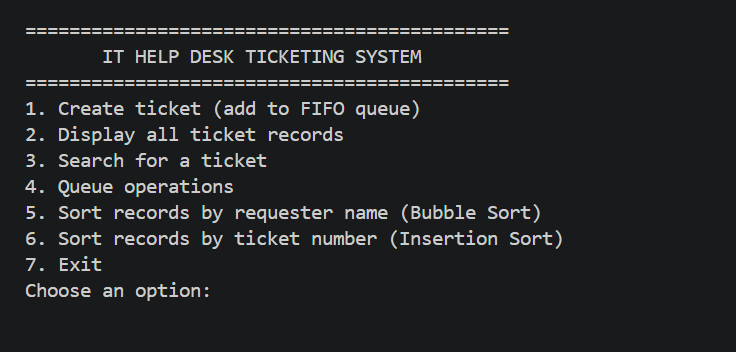
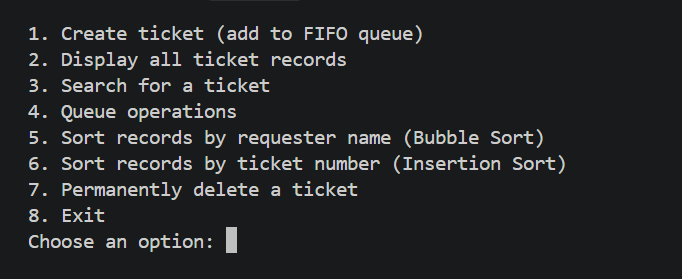
Improved ticket validation, sorting output, and added permanent ticket deletion. Documentation has been updated to accomodate.

Changed region(s): [[0.0308, 0.2867, 0.8314, 0.9176], [0.0308, 0.0573, 0.7082, 0.2581]]

diff --git a/src/Main.java b/src/Main.java
@@ -44,7 +44,7 @@ public class Main {
 
         while (running) {
             displayMainMenu();
-            int choice = readIntegerInRange("Choose an option: ", 1, 7);
+            int choice = readIntegerInRange("Choose an option: ", 1, 8);
 
             if (choice == END_OF_INPUT) {
                 break;
@@ -70,6 +70,9 @@ public class Main {
                     sortByTicketNumber();
                     break;
                 case 7:
+                    deleteTicket();
+                    break;
+                case 8:
                     running = false;
                     System.out.println("Thank you for using the IT Help Desk Ticketing System.");
                     break;
@@ -95,7 +98,8 @@ public class Main {
         System.out.println("4. Queue operations");
         System.out.println("5. Sort records by requester name (Bubble Sort)");
         System.out.println("6. Sort records by ticket number (Insertion Sort)");
-        System.out.println("7. Exit");
+        System.out.println("7. Permanently delete a ticket");
+        System.out.println("8. Exit");
     }
 
     private static void addTicket() {
@@ -202,6 +206,85 @@ public class Main {
 
         System.out.println("\n--- Ticket Found ---");
         displayTicket(index);
+    }
+
+    private static void deleteTicket() {
+        if (ticketNumbers.isEmpty()) {
+            System.out.println("\nNo ticket records are available to delete.");
+            return;
+        }
+
+        System.out.println("\nEnter 0 to return to the main menu.");
+        int ticketNumber = readTicketNumber("Enter the ticket number to delete: ");
+        if (ticketNumber == END_OF_INPUT || ticketNumber == CANCEL_OPERATION) {
+            return;
+        }
+
+        int index = findTicketIndex(ticketNumber);
+        if (index < 0) {
+            System.out.println("No ticket found with number " + formatTicketNumber(ticketNumber) + ".");
+            return;
+        }
+
+        System.out.println("\n--- Ticket Selected for Deletion ---");
+        displayTicket(index);
+        if (!confirmTicketDeletion()) {
+            return;
+        }
+
+        boolean pending = ticketStatuses.get(index).equals("Pending");
+        if (pending && !ticketQueue.contains(ticketNumber)) {
+            System.out.println("Queue error: pending ticket " + formatTicketNumber(ticketNumber)
+                    + " is not in the waiting queue. No ticket was deleted.");
+            return;
+        }
+
+        String requesterName = requesterNames.get(index);
+        String issueDescription = issueDescriptions.get(index);
+        String submissionTime = submissionTimes.get(index);
+        String status = ticketStatuses.get(index);
+        removeTicketRecord(index);
+
+        try {
+            saveTickets();
+        } catch (IOException exception) {
+            ticketNumbers.add(index, ticketNumber);
+            requesterNames.add(index, requesterName);
+            issueDescriptions.add(index, issueDescription);
+            submissionTimes.add(index, submissionTime);
+            ticketStatuses.add(index, status);
+            System.out.println("Unable to save the deletion. The ticket was restored: "
+                    + exception.getMessage());
+            return;
+        }
+
+        if (pending && !ticketQueue.remove(Integer.valueOf(ticketNumber))) {
+            System.out.println("Warning: the ticket was deleted from records, but could not be "
+                    + "removed from the waiting queue.");
+            return;
+        }
+
+        System.out.println("Ticket " + formatTicketNumber(ticketNumber)
+                + " was permanently deleted.");
+    }
+
+    private static boolean confirmTicketDeletion() {
+        while (true) {
+            String value = readLine("Permanently delete this ticket? (y/n): ");
+            if (value == null) {
+                return false;
+            }
+
+            String answer = value.trim().toLowerCase(Locale.ROOT);
+            if (answer.equals("y") || answer.equals("yes")) {
+                return true;
+            }
+            if (answer.equals("n") || answer.equals("no")) {
+                System.out.println("Deletion cancelled. The ticket was not changed.");
+                return false;
+            }
+            System.out.println("Invalid response. Enter y to confirm or n to cancel.");
+        }
     }
 
     private static void displayQueueMenu() {
@@ -315,11 +398,35 @@ public class Main {
 
         List<String> savedLines = Files.readAllLines(DATA_FILE, StandardCharsets.UTF_8);
         int highestTicketNumber = 0;
+        int savedNextTicketNumber = 1001;
         int loadedCount = 0;
+        boolean sequenceFound = false;
 
         for (int lineIndex = 0; lineIndex < savedLines.size(); lineIndex++) {
+            String savedLine = savedLines.get(lineIndex);
+            if (savedLine.startsWith("#NEXT|")) {
+                if (sequenceFound) {
+                    System.out.println("Warning: Skipping duplicate ticket sequence on line "
+                            + (lineIndex + 1) + ".");
+                    continue;
+                }
+
+                try {
+                    int parsedNextTicketNumber = Integer.parseInt(savedLine.substring(6));
+                    if (parsedNextTicketNumber < 1 && parsedNextTicketNumber != -1) {
+                        throw new IllegalArgumentException("next ticket number is invalid");
+                    }
+                    savedNextTicketNumber = parsedNextTicketNumber;
+                    sequenceFound = true;
+                } catch (IllegalArgumentException exception) {
+                    System.out.println("Warning: Ignoring invalid ticket sequence on line "
+                            + (lineIndex + 1) + ".");
+                }
+                continue;
+            }
+
             try {
-                ArrayList<String> fields = splitSavedRecord(savedLines.get(lineIndex));
+                ArrayList<String> fields = splitSavedRecord(savedLine);
                 if (fields.size() != 5) {
                     throw new IllegalArgumentException("expected five fields");
                 }
@@ -356,8 +463,10 @@ public class Main {
         }
 
         rebuildWaitingQueue();
-        nextTicketNumber = highestTicketNumber == Integer.MAX_VALUE
+        int nextNumberAfterHighest = highestTicketNumber == Integer.MAX_VALUE
                 ? -1 : highestTicketNumber + 1;
+        nextTicketNumber = savedNextTicketNumber == -1 || nextNumberAfterHighest == -1
+                ? -1 : Math.max(savedNextTicketNumber, nextNumberAfterHighest);
 
         System.out.println("Loaded " + loadedCount + " saved ticket record(s); "
                 + ticketQueue.size() + " pending ticket(s) restored to the FIFO queue.");
@@ -400,6 +509,7 @@ public class Main {
 
     private static void saveTickets() throws IOException {
         ArrayList<String> savedLines = new ArrayList<String>();
+        savedLines.add("#NEXT|" + nextTicketNumber);
         for (int index = 0; index < ticketNumbers.size(); index++) {
             savedLines.add(ticketNumbers.get(index)
                     + "|" + escapeSavedField(ticketStatuses.get(index))

diff --git a/README.md b/README.md
@@ -22,10 +22,11 @@ The IT Help Desk Ticketing System is a console-based Java application for record
 - Display the waiting queue in FIFO order.
 - Peek at the next ticket without removing it.
 - Process the next ticket, marking it as processed.
+- Permanently delete a pending or processed ticket after confirmation. Deleting a pending ticket also removes it from the waiting queue.
 - Sort ticket records by requester name or ticket number.
 - Save ticket records locally and reload them on the next launch.
 - Reject invalid requester names, blank ticket details, and invalid menu or ticket-number input with clear messages.
-- To return to the main menu, enter `0` at a ticket creation or search prompt, or choose `0` in the Queue Operations menu. Display and sort actions return to the main menu automatically when complete.
+- To return to the main menu, enter `0` at a ticket creation, search, or delete prompt, or choose `0` in the Queue Operations menu. Display, sort, and delete actions return to the main menu automatically when complete.
 - Handle empty record lists and empty queues without terminating unexpectedly.
 
 ## Data Structure Explanation
@@ -42,7 +43,7 @@ The values at a given index in all five lists describe the same ticket. The sort
 
 The waiting queue is a `Queue<Integer>` backed by `ArrayDeque<Integer>`. It contains ticket numbers in arrival order, not copies of ticket records. Queue display and peek operations use each queued number to find its record. Processing removes only the queue's head ticket and marks that ticket as processed. Sorting changes the order of records in the `ArrayList`s, but never changes the queue.
 
-Ticket records are saved to `tickets.txt` in the directory where the program is launched. The file is updated when a ticket is created or processed and loaded on startup. Pending tickets are restored to the queue in ticket-number/arrival order, even if the record lists had been sorted before the application closed. The data file is excluded from Git so local ticket details are not accidentally committed.
+Ticket records are saved to `tickets.txt` in the directory where the program is launched. The file is updated when a ticket is created, processed, or deleted and loaded on startup. A saved next-ticket counter ensures ticket numbers are not reused after a ticket is deleted. Deleting a pending ticket also removes it from the waiting queue; processed tickets are removed from the records. Pending tickets are restored to the queue in ticket-number/arrival order, even if the record lists had been sorted before the application closed. The data file is excluded from Git so local ticket details are not accidentally committed.
 
 The application uses only static methods and built-in Java data types and collections for its procedural logic. It does not define custom ticket/entity classes or use custom objects.
 
@@ -76,7 +77,7 @@ javac -d out src/Main.java
 java -cp out Main
 ```
 
-Select a menu option by entering its number. Creating a ticket automatically enqueues and saves it. Choose **Queue operations** to display the waiting list, peek at the next ticket, or process it. Processed status is saved immediately. On later launches, the application reloads saved tickets and restores pending tickets to the queue.
+Select a menu option by entering its number. Creating a ticket automatically enqueues and saves it. Choose **Queue operations** to display the waiting list, peek at the next ticket, or process it. Choose **Permanently delete a ticket** to remove a pending or processed record after confirming; deletion is saved immediately. On later launches, the application reloads saved tickets and restores pending tickets to the queue.
 
 ## Screenshots of the System
 
@@ -84,7 +85,7 @@ Select a menu option by entering its number. Creating a ticket automatically enq
 
 ![Main menu of the IT Help Desk Ticketing System](screenshots/main-menu.png)
 
-*The running application’s main menu and available operations.*
+*The running application’s main menu, including permanent ticket deletion as option 7 and Exit as option 8.*
 
 ### Creating a Ticket
 
@@ -127,6 +128,12 @@ Select a menu option by entering its number. Creating a ticket automatically enq
 ![Insertion Sort showing ticket records before and after sorting by ticket number](screenshots/sort-by-ticket-number.png)
 
 *The records are arranged by ticket number while the FIFO queue order remains unchanged.*
+
+### Deleting a Ticket
+
+![Confirming and permanently deleting a ticket](screenshots/ticket-deletion.png)
+
+*The selected ticket is shown before deletion, and the user confirms the permanent removal.*
 
 ### Returning to the Main Menu
 
